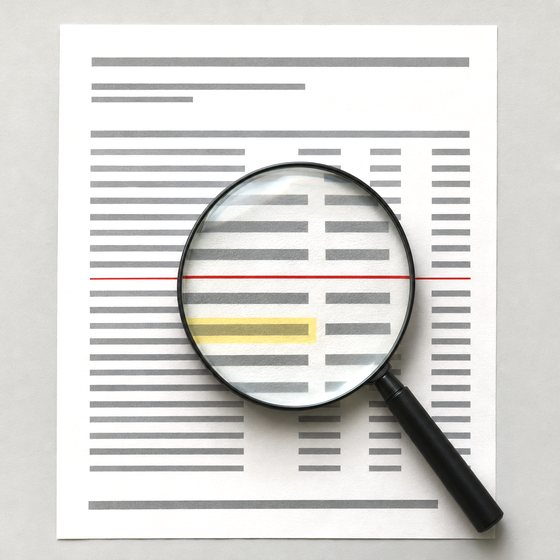
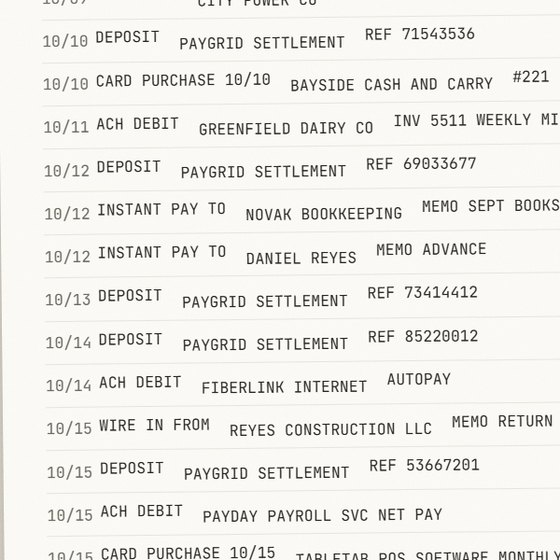
Real-statement art: label tape with each code, a thread between the linked pair
The step pictures, the link-preview card and the README banner now come from the real café sample statement, typeset and covered with label tape that reads each payee's code, with a red thread between PERSON_1 and BUSINESS_12 and the two matching amounts circled. The explainer leads with the round trip and shows the held-out result. README mentions the playground and the client workpaper.

diff --git a/index.html b/index.html
@@ -7,12 +7,12 @@
     <meta name="description" content="Blindfold reads a client's bank statement on your own computer and lets the cloud review only the shape of the money, never the names. Built with Firebase AI Logic hybrid inference." />
     <meta property="og:type" content="website" />
     <meta property="og:url" content="https://blindfold-audit.web.app/" />
-    <meta property="og:title" content="Blindfold: the cloud finds the red flags, it never sees a name" />
+    <meta property="og:title" content="Blindfold: audit the money, not the names" />
     <meta property="og:description" content="A blind audit for bank statements. Names become codes on your own computer, so the cloud can judge double payments, cash kept under the limit and money that comes back, without learning whose money it is." />
     <meta property="og:image" content="https://blindfold-audit.web.app/og.jpg" />
     <meta property="og:image:width" content="1200" />
     <meta property="og:image:height" content="630" />
-    <meta property="og:image:alt" content="A bank statement with names covered by black tape and red thread linking matching lines, next to the words: The cloud finds the red flags. It never sees a name." />
+    <meta property="og:image:alt" content="A real sample bank statement where every payee name is covered by label tape printed with its code; a red thread links PERSON_1 and BUSINESS_12, and the two 7,500.00 amounts are circled." />
     <meta name="twitter:card" content="summary_large_image" />
     <meta name="twitter:image" content="https://blindfold-audit.web.app/og.jpg" />
     <link rel="icon" href="/favicon.svg" type="image/svg+xml" />

diff --git a/README.md b/README.md
@@ -6,7 +6,7 @@ Blindfold is a second pair of eyes for bank statements, built for one-person boo
 
 **Live app:** https://blindfold-audit.web.app &nbsp;·&nbsp; **Demo video:** https://youtu.be/UWM-k9jvhVc &nbsp;·&nbsp; **License:** Apache-2.0
 
-![Blindfold: the cloud finds the red flags, it never sees a name. A bank statement with names covered by black tape and red thread linking matching lines](docs/banner.jpg)
+![Blindfold: audit the money, not the names. A real sample statement where every payee name is covered by label tape printed with its code, and a red thread links PERSON_1 to BUSINESS_12](docs/banner.jpg)
 
 ## Try it
 
@@ -14,6 +14,8 @@ Open **https://blindfold-audit.web.app**, choose **Audit**, and pick a sample st
 
 - **With Chrome's built-in AI** (desktop Chrome 139 or newer on [supported hardware](https://developer.chrome.com/docs/ai/get-started)): choose **Run on this computer**. The first time, Chrome downloads the model once (about 4 GB); the app asks before starting that download, and its status line shows whether the model is ready.
 - **Without it:** choose **Watch a recorded run** to replay a real audit recorded on a laptop that has the built-in model (always labelled as a recording), or choose **Run on this computer** and accept the **masked cloud-only mode**. In that mode rows are masked by rules on your computer first, and the cloud labels the masked lines.
+- **Try to slip a name past it:** on the home page, type any bank line and watch the masking and the last check run in the page, or switch the masking off and watch the check stop the request. No model and no network involved.
+- **After an audit:** "Client workpaper" gives a printable page with each red flag, its numbers, the question for the client (names restored) and room for the answer, plus the privacy check line.
 - **Your own statement:** drop a CSV export from your bank. The date, description and amount columns are worked out from the file, with or without a header row (US, UK, European and Indian layouts; see [Reading real bank exports](#reading-real-bank-exports)). The app shows how it read the file before the audit starts, and if it cannot tell the columns apart, you point at them. The file is read in the browser tab and never uploaded.
 
 ## The problem
@@ -52,9 +54,9 @@ This is what sets Blindfold apart from tools that redact a document and ask one 
 
 ![Every name becomes a code, the pattern stays visible: three findings from the café sample, raw on the left, as the cloud reads them on the right](docs/codes-keep-the-pattern.png)
 
-Rows that need no second look are never sent at all. The X-ray view shows all four steps for any finding, with your computer on the left of the red line and the cloud on the right:
+Rows that need no second look are never sent at all. The "What the cloud saw" view shows all four steps for any finding, with your computer on the left of the red line and the cloud on the right:
 
-![The X-ray of a finding: what stayed on the computer, exactly what was sent, the answer as it came back, and the answer with names put back](docs/xray.png)
+![What the cloud saw, for one finding: what stayed on the computer, exactly what was sent, the answer as it came back, and the answer with names put back](docs/xray.png)
 
 ## Privacy safeguards
 
